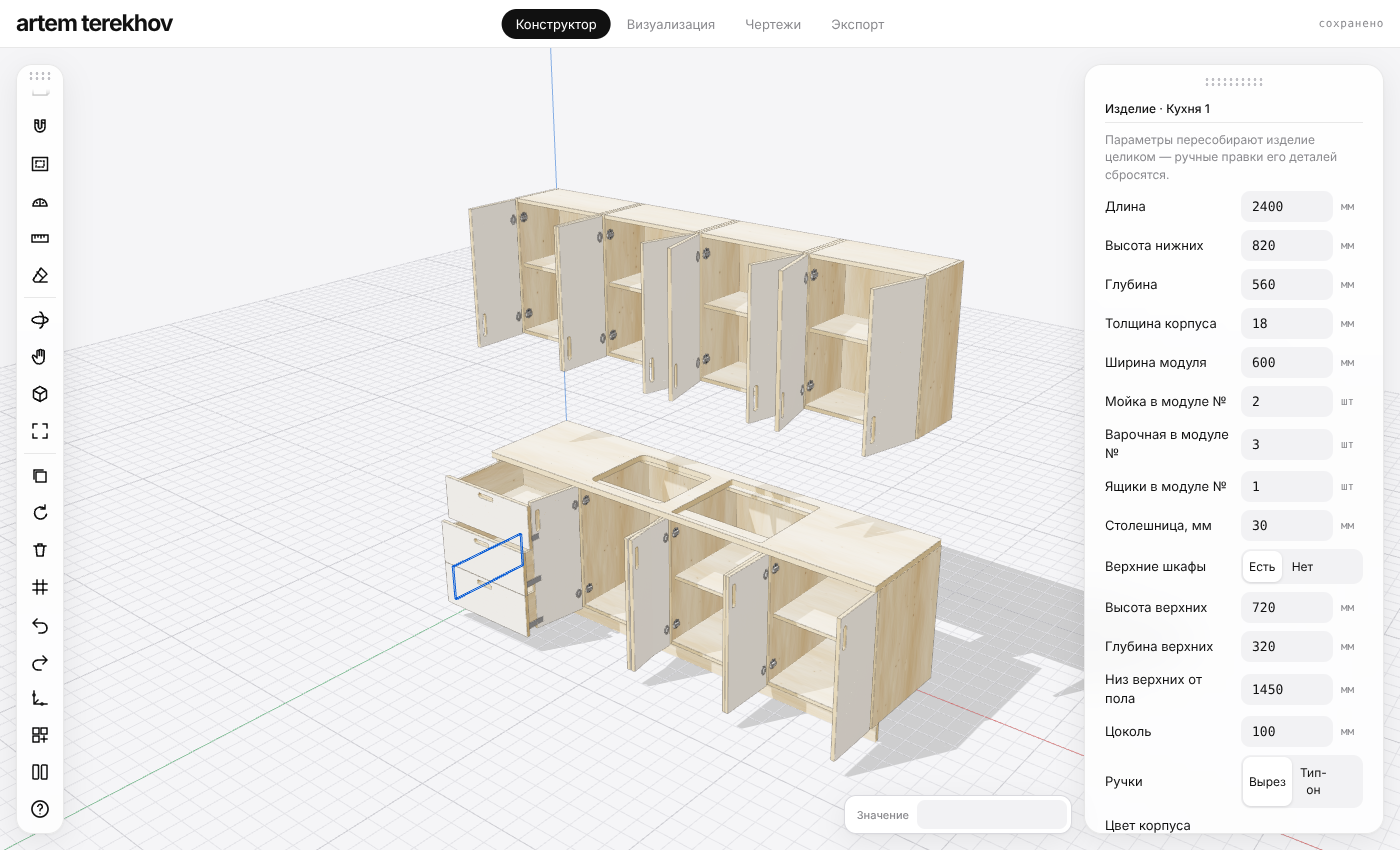
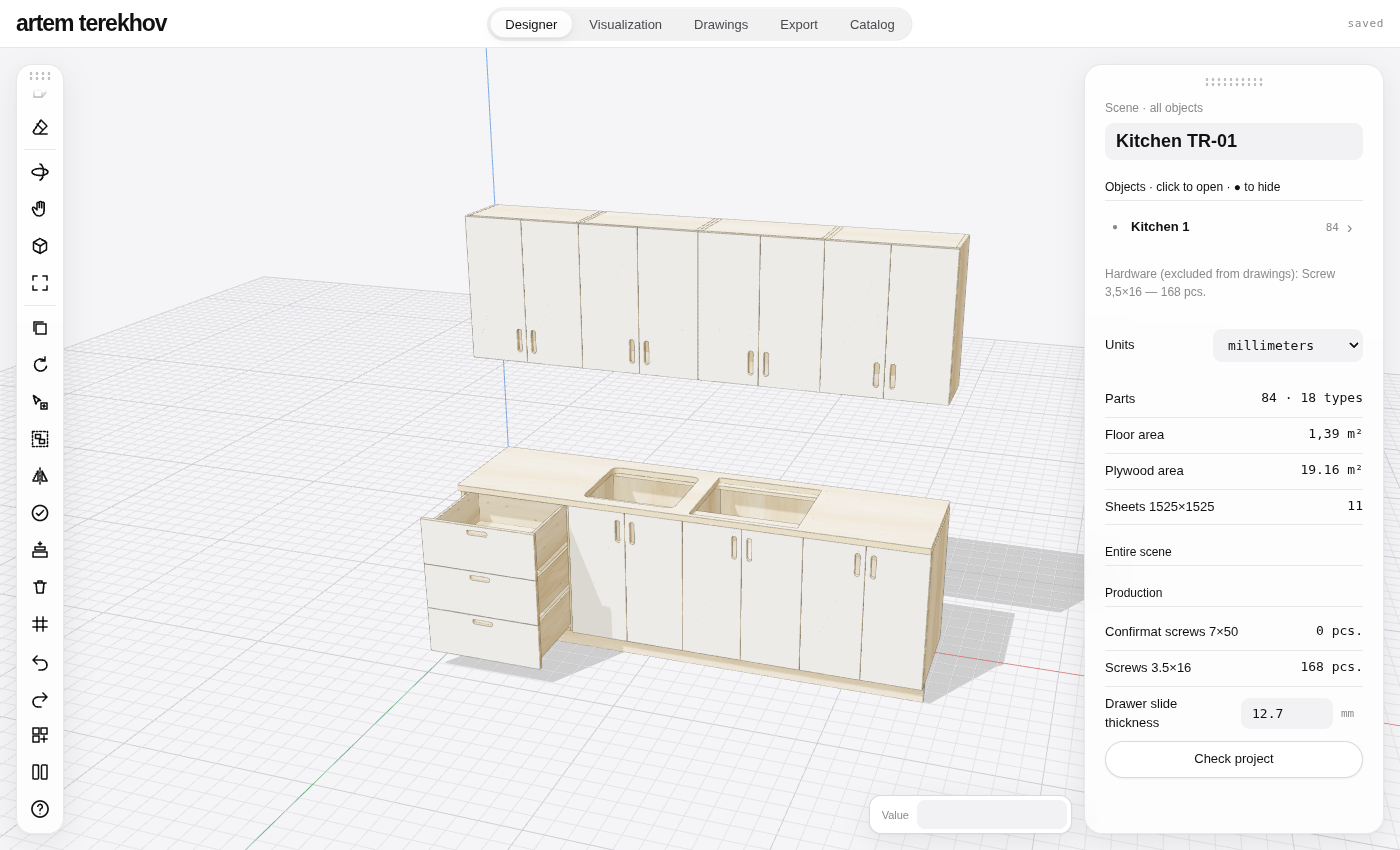
Replace Russian documentation screenshots with English UI captures

diff --git a/README.md b/README.md
@@ -4,7 +4,7 @@ Design plywood furniture in the browser. Draw, cut, drill — get drawings and a
 
 → **https://qwekurasa.github.io/terekhov-bureau/**
 
-![Kitchen, doors and drawers open](docs/kitchen.png)
+![Kitchen project with drawers open](docs/kitchen.png)
 
 ## Tools
 
